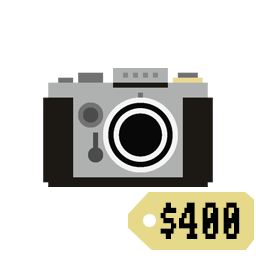
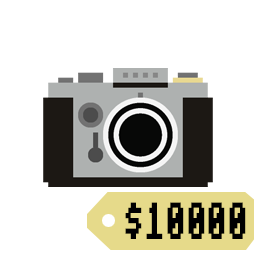
more expensive radio and camera

Changed region(s): [[0.3125, 0.75, 0.9688, 1.0]]

diff --git a/PlayMode.cpp b/PlayMode.cpp
@@ -1298,11 +1298,11 @@ void PlayMode::invoke_callback(Button_UI::call_back callback) {
 			break;
 	
 		case Button_UI::BUY_CAMERA:	
-			clickSuccess = totalMoney >= 400;
+			clickSuccess = totalMoney >= 10000;
 			if(clickSuccess) {
 				Sound::play(*cash_sample, 1.0f, 0.0f);
 				camera_body_transform->scale = glm::vec3(1.f);
-				totalMoney -= 400;
+				totalMoney -= 10000;
 				alt_camera_bought = true;
 				schedule_lambda([this](){
 					auto it = buttons.begin();
@@ -1320,11 +1320,11 @@ void PlayMode::invoke_callback(Button_UI::call_back callback) {
 			}
 			break;
 		case Button_UI::BUY_RADIO:
-			clickSuccess = totalMoney >= 200 && !first_time_radio;
+			clickSuccess = totalMoney >= 5000 && !first_time_radio;
 			if(clickSuccess) {
 				first_time_radio = true;
 				Sound::loop(*background_sample, 1.0f, 0.0f);
-				totalMoney -= 200;
+				totalMoney -= 5000;
 				auto it = buttons.begin();
 				while(it != buttons.end()) {
 					PlayMode::Button_UI b = *it;
